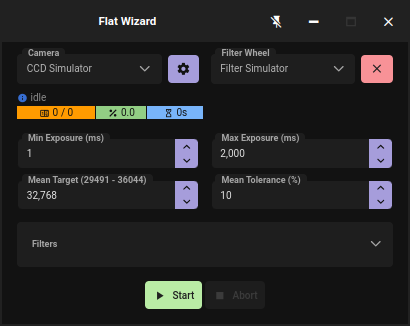
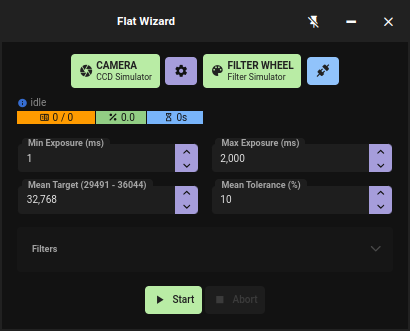
[desktop]: Use button instead of dropdown to display a list of devices

diff --git a/desktop/src/app/alignment/alignment.component.html b/desktop/src/app/alignment/alignment.component.html
@@ -1,35 +1,21 @@
 <div class="container px-4 py-3">
     <div class="grid">
-        <div class="col-6 align-items-center gap-2">
-            <span class="p-float-label device">
-                <p-dropdown [disabled]="running" [options]="cameras" [(ngModel)]="camera" optionLabel="name" [autoDisplayFirst]="false"
-                            (ngModelChange)="cameraChanged()" styleClass="p-inputtext-sm border-0 max-w-full" emptyMessage="No camera found" />
-                <label>Camera</label>
-            </span>
+        <div class="col-12 align-items-center justify-content-center gap-2">
+            <neb-device-list-button title="CAMERA" icon="mdi mdi-camera-iris" [devices]="cameras" [(device)]="camera" />
             <p-button [disabled]="!camera.name || running" icon="mdi mdi-cog" (onClick)="showCameraDialog()" size="small" />
-        </div>
-        <div class="col-6 align-items-center gap-2" *ngIf="tab === 0">
-            <span class="p-float-label device">
-                <p-dropdown [disabled]="running" [options]="mounts" [(ngModel)]="mount" optionLabel="name" [autoDisplayFirst]="false"
-                            (ngModelChange)="mountChanged()" styleClass="p-inputtext-sm border-0 max-w-full" emptyMessage="No mount found" />
-                <label>Mount</label>
-            </span>
+            @if (tab === 0) {
+            <neb-device-list-button title="MOUNT" icon="mdi mdi-telescope" [devices]="mounts" [(device)]="mount" />
             <p-button *ngIf="mount.connected" [disabled]="!mount.name || running" (onClick)="mountConnect()" icon="mdi mdi-close"
                       size="small" severity="danger" pTooltip="Disconnect" tooltipPosition="bottom" />
             <p-button *ngIf="!mount.connected" [disabled]="!mount.name || running" (onClick)="mountConnect()" icon="mdi mdi-connection"
                       size="small" severity="info" pTooltip="Connect" tooltipPosition="bottom" />
-        </div>
-        <div class="col-6 align-items-center gap-2" *ngIf="tab === 1">
-            <span class="p-float-label device">
-                <p-dropdown [disabled]="running" [options]="guideOutputs" [(ngModel)]="guideOutput" optionLabel="name"
-                            (ngModelChange)="guideOutputChanged()" styleClass="p-inputtext-sm border-0 max-w-full"
-                            emptyMessage="No guide output found" [autoDisplayFirst]="false" />
-                <label>Guide Output</label>
-            </span>
+            } @else {
+            <neb-device-list-button title="GUIDE OUTPUT" icon="mdi mdi-target" [devices]="guideOutputs" [(device)]="guideOutput" />
             <p-button *ngIf="guideOutput.connected" [disabled]="!guideOutput.name || running" (onClick)="guideOutputConnect()"
                       icon="mdi mdi-close" size="small" severity="danger" pTooltip="Disconnect" tooltipPosition="bottom" />
             <p-button *ngIf="!guideOutput.connected" [disabled]="!guideOutput.name || running" (onClick)="guideOutputConnect()"
                       icon="mdi mdi-connection" size="small" severity="info" pTooltip="Connect" tooltipPosition="bottom" />
+            }
         </div>
         <div class="col-12 pt-0 text-sm text-gray-400 flex align-items-center my-1 gap-1 text-sm" style="min-height: 25px;">
             <i class="mdi mdi-information text-blue-600"></i>

diff --git a/desktop/src/app/home/home.component.ts b/desktop/src/app/home/home.component.ts
@@ -123,13 +123,13 @@ export class HomeComponent implements AfterContentInit, OnDestroy {
     ) {
         this.electron.on(`${type}.ATTACHED`, event => {
             this.ngZone.run(() => {
-                onAdd(event.device as any)
+                onAdd(event.device as never)
             })
         })
 
         this.electron.on(`${type}.DETACHED`, event => {
             this.ngZone.run(() => {
-                onRemove(event.device as any)
+                onRemove(event.device as never)
             })
         })
     }
@@ -211,7 +211,7 @@ export class HomeComponent implements AfterContentInit, OnDestroy {
     async ngAfterContentInit() {
         await this.updateConnection()
 
-        if (this.connection?.connected) {
+        if (this.connected) {
             this.cameras = await this.api.cameras()
             this.mounts = await this.api.mounts()
             this.focusers = await this.api.focusers()
@@ -220,7 +220,9 @@ export class HomeComponent implements AfterContentInit, OnDestroy {
     }
 
     @HostListener('window:unload')
-    ngOnDestroy() { }
+    ngOnDestroy() {
+        this.disconnect()
+    }
 
     addConnection() {
         this.newConnection = [structuredClone(EMPTY_CONNECTION_DETAILS), undefined]
@@ -269,15 +271,25 @@ export class HomeComponent implements AfterContentInit, OnDestroy {
 
     async connect() {
         try {
-            if (this.connection && this.connection.connected) {
-                await this.api.disconnect(this.connection.id!)
-            } else if (this.connection) {
+            if (this.connection && !this.connection.connected) {
                 this.connection.id = await this.api.connect(this.connection.host, this.connection.port, this.connection.type)
             }
         } catch (e) {
             console.error(e)
 
             this.message.add({ severity: 'error', detail: 'Connection failed' })
+        } finally {
+            await this.updateConnection()
+        }
+    }
+
+    async disconnect() {
+        try {
+            if (this.connection && this.connection.connected) {
+                await this.api.disconnect(this.connection.id!)
+            }
+        } catch (e) {
+            console.error(e)
         } finally {
             this.updateConnection()
         }

diff --git a/desktop/src/app/sequencer/sequencer.component.html b/desktop/src/app/sequencer/sequencer.component.html
@@ -134,29 +134,10 @@
         </p-tabView>
     </div>
     <div class="grid">
-        <div class="col-4 align-items-center pt-4">
-            <span class="p-float-label">
-                <p-dropdown [disabled]="running" [options]="cameras" [autoDisplayFirst]="false"
-                            [(ngModel)]="camera" optionLabel="name" styleClass="p-inputtext-sm border-0"
-                            [style]="{'min-width': '131px'}" (ngModelChange)="savePlan()"
-                            emptyMessage="No camera found" />
-                <label>Camera</label>
-            </span>
-        </div>
-        <div class="col-4 align-items-center pt-4">
-            <span class="p-float-label" *ngIf="wheels.length">
-                <p-dropdown [disabled]="running" [options]="wheels" [(ngModel)]="wheel"
-                            optionLabel="name" styleClass="p-inputtext-sm border-0" [autoDisplayFirst]="false"
-                            emptyMessage="No filter wheel found" (ngModelChange)="savePlan()" />
-                <label>Filter Wheel</label>
-            </span>
-        </div>
-        <div class="col-4 align-items-center pt-4">
-            <span class="p-float-label" *ngIf="focusers.length">
-                <p-dropdown [disabled]="running" [options]="focusers" [(ngModel)]="focuser" optionLabel="name" [autoDisplayFirst]="false"
-                            styleClass="p-inputtext-sm border-0" emptyMessage="No focuser found" (ngModelChange)="savePlan()" />
-                <label>Focuser</label>
-            </span>
+        <div class="col-12 align-items-center justify-content-center pt-4 gap-2">
+            <neb-device-list-button title="CAMERA" icon="mdi mdi-camera-iris" [devices]="cameras" [(device)]="camera" />
+            <neb-device-list-button title="FILTER WHEEL" icon="mdi mdi-palette" [devices]="wheels" [(device)]="wheel" />
+            <neb-device-list-button title="FOCUSER" icon="mdi mdi-image-filter-center-focus" [devices]="focusers" [(device)]="focuser" />
         </div>
     </div>
     <div class="grid mt-0">

diff --git a/desktop/src/app/flat-wizard/flat-wizard.component.html b/desktop/src/app/flat-wizard/flat-wizard.component.html
@@ -1,19 +1,10 @@
 <div class="container px-4 py-3">
     <div class="grid">
-        <div class="col-6 align-items-center gap-2">
-            <span class="p-float-label device">
-                <p-dropdown [disabled]="running" [options]="cameras" [(ngModel)]="camera" optionLabel="name" [autoDisplayFirst]="false"
-                            styleClass="p-inputtext-sm border-0" (ngModelChange)="cameraChanged()" emptyMessage="No camera found" />
-                <label>Camera</label>
-            </span>
+        <div class="col-12 align-items-center justify-content-center gap-2">
+            <neb-device-list-button title="CAMERA" icon="mdi mdi-camera-iris" [devices]="cameras" [(device)]="camera" />
             <p-button [disabled]="!camera.name || running" icon="mdi mdi-cog" size="small" (onClick)="showCameraDialog()" />
-        </div>
-        <div class="col-6 align-items-center gap-2">
-            <span class="p-float-label device">
-                <p-dropdown [disabled]="running" [options]="wheels" [(ngModel)]="wheel" optionLabel="name" [autoDisplayFirst]="false"
-                            styleClass="p-inputtext-sm border-0" (ngModelChange)="wheelChanged()" emptyMessage="No filter wheel found" />
-                <label>Filter Wheel</label>
-            </span>
+            <neb-device-list-button title="FILTER WHEEL" icon="mdi mdi-palette" [devices]="wheels" [(device)]="wheel" />
+
             <p-button *ngIf="wheel?.connected" [disabled]="!wheel.name || running" (onClick)="wheelConnect()" icon="mdi mdi-close"
                       size="small" severity="danger" pTooltip="Disconnect" tooltipPosition="bottom" />
             <p-button *ngIf="!wheel?.connected" [disabled]="!wheel.name || running" (onClick)="wheelConnect()" icon="mdi mdi-connection"

diff --git a/desktop/src/app/guider/guider.component.html b/desktop/src/app/guider/guider.component.html
@@ -138,13 +138,8 @@
                 </p-tabView>
             </p-tabPanel>
             <p-tabPanel header="Guide pulse" leftIcon="mdi mdi-pulse">
-                <div class="col-12 flex flex-row align-items-center gap-2">
-                    <span class="p-float-label w-full">
-                        <p-dropdown [options]="guideOutputs" [(ngModel)]="guideOutput" optionLabel="name" (ngModelChange)="guideOutputChanged()"
-                                    [autoDisplayFirst]="false" styleClass="p-inputtext-sm border-0" emptyMessage="No guide output found" />
-                        <label>Guide Output</label>
-                    </span>
-
+                <div class="mt-1 col-12 flex flex-row align-items-center justify-content-center gap-2">
+                    <neb-device-list-button title="GUIDE OUTPUT" icon="mdi mdi-target" [devices]="guideOutputs" [(device)]="guideOutput" />
                     <p-button *ngIf="guideOutputConnected" [disabled]="!guideOutput || pulseGuiding" (onClick)="connectGuideOutput()"
                               icon="mdi mdi-close" size="small" severity="danger" />
                     <p-button *ngIf="!guideOutputConnected" [disabled]="!guideOutput || pulseGuiding" (onClick)="connectGuideOutput()"

diff --git a/desktop/src/shared/components/device-list-button/device-list-button.component.ts b/desktop/src/shared/components/device-list-button/device-list-button.component.ts
@@ -1,0 +1,45 @@
+import { Component, EventEmitter, Input, Output, ViewChild } from '@angular/core'
+import { Device } from '../../types/device.types'
+import { DeviceListMenuComponent } from '../device-list-menu/device-list-menu.component'
+
+@Component({
+    selector: 'neb-device-list-button',
+    templateUrl: './device-list-button.component.html',
+    styleUrls: ['./device-list-button.component.scss'],
+})
+export class DeviceListButtonComponent {
+
+    @Input({ required: true })
+    readonly title!: string
+
+    @Input()
+    readonly noDeviceMessage?: string
+
+    @Input({ required: true })
+    readonly icon!: string
+
+    @Input({ required: true })
+    readonly devices!: Device[]
+
+    @Input()
+    device?: Device
+
+    @Output()
+    readonly deviceChange = new EventEmitter<Device>()
+
+    @ViewChild('deviceMenu')
+    private readonly deviceMenu!: DeviceListMenuComponent
+
+    async show() {
+        const device = await this.deviceMenu.show(this.devices)
+
+        if (device) {
+            this.device = device
+            this.deviceChange.emit(device)
+        }
+    }
+
+    hide() {
+        this.deviceMenu.hide()
+    }
+}

diff --git a/desktop/src/app/app.module.ts b/desktop/src/app/app.module.ts
@@ -40,6 +40,7 @@ import { TieredMenuModule } from 'primeng/tieredmenu'
 import { ToastModule } from 'primeng/toast'
 import { TooltipModule } from 'primeng/tooltip'
 import { CameraExposureComponent } from '../shared/components/camera-exposure/camera-exposure.component'
+import { DeviceListButtonComponent } from '../shared/components/device-list-button/device-list-button.component'
 import { DeviceListMenuComponent } from '../shared/components/device-list-menu/device-list-menu.component'
 import { DialogMenuComponent } from '../shared/components/dialog-menu/dialog-menu.component'
 import { HistogramComponent } from '../shared/components/histogram/histogram.component'
@@ -89,6 +90,7 @@ import { SettingsComponent } from './settings/settings.component'
         CalibrationComponent,
         CameraComponent,
         CameraExposureComponent,
+        DeviceListButtonComponent,
         DeviceListMenuComponent,
         DialogMenuComponent,
         EnumPipe,

diff --git a/desktop/src/app/home/home.component.html b/desktop/src/app/home/home.component.html
@@ -31,8 +31,8 @@
                 <label>Connection</label>
             </span>
             <p-button (onClick)="addConnection()" size="small" icon="mdi mdi-plus" severity="success" />
-            <p-button *ngIf="!connected" [disabled]="!connection" (onClick)="connect()" size="small" icon="mdi mdi-connection" />
-            <p-button *ngIf="connected" [disabled]="!connection" (onClick)="connect()" size="small" icon="mdi mdi-close" severity="danger" />
+            <p-button *ngIf="!connected" [disabled]="!connection" (onClick)="connect()" size="small" icon="mdi mdi-connection" severity="info" />
+            <p-button *ngIf="connected" [disabled]="!connection" (onClick)="disconnect()" size="small" icon="mdi mdi-close" severity="danger" />
         </div>
     </div>
     <div class="grid my-2 overflow-y-auto" style="height: calc(62px * 5);">

diff --git a/desktop/src/shared/components/device-list-menu/device-list-menu.component.ts b/desktop/src/shared/components/device-list-menu/device-list-menu.component.ts
@@ -19,7 +19,7 @@ export class DeviceListMenuComponent {
     readonly modelAtFirst: boolean = true
 
     @Input()
-    readonly disableIfNotConnected: boolean = true
+    readonly disableIfDeviceIsNotConnected: boolean = true
 
     @ViewChild('menu')
     private readonly menu!: DialogMenuComponent
@@ -52,7 +52,7 @@ export class DeviceListMenuComponent {
                 model.push({
                     icon: 'mdi mdi-connection',
                     label: device.name,
-                    disabled: this.disableIfNotConnected && !device.connected,
+                    disabled: this.disableIfDeviceIsNotConnected && !device.connected,
                     command: () => {
                         resolve(device)
                     },

diff --git a/desktop/src/shared/components/device-list-button/device-list-button.component.html b/desktop/src/shared/components/device-list-button/device-list-button.component.html
@@ -1,0 +1,15 @@
+<p-button (onClick)="show()" severity="success" styleClass="p-button-sm">
+    <div class="flex align-items-center gap-1">
+        <i [class]="icon"></i>
+        <div class="flex flex-column text-left gap-1px">
+            <span class="font-bold text-sm">{{ title }}</span>
+            @if (device && device.id) {
+            <span class="text-xs font-normal">{{ device.name }}</span>
+            } @else {
+            <span class="text-xs font-normal">{{noDeviceMessage || 'Choose a device' }}</span>
+            }
+        </div>
+    </div>
+</p-button>
+
+<neb-device-list-menu #deviceMenu [disableIfDeviceIsNotConnected]="false" />

diff --git a/desktop/src/shared/services/browser-window.service.ts b/desktop/src/shared/services/browser-window.service.ts
@@ -99,7 +99,7 @@ export class BrowserWindowService {
     }
 
     openFlatWizard(options: OpenWindowOptions = {}) {
-        Object.assign(options, { icon: 'star', width: 410, height: 326 })
+        Object.assign(options, { icon: 'star', width: 410, height: 331 })
         this.openWindow({ ...options, id: 'flat-wizard', path: 'flat-wizard', data: undefined })
     }
 

diff --git a/desktop/src/styles.scss b/desktop/src/styles.scss
@@ -133,8 +133,12 @@ p-dropdown,
     border: 1px solid rgba(255, 255, 255, 0) !important;
 }
 
-.p-button.p-button-icon-only {
-    min-width: fit-content;
+.p-button {
+    white-space: nowrap;
+
+    &.p-button-icon-only {
+        min-width: fit-content;
+    }
 }
 
 p-calendar.border-0 .p-calendar-w-btn {
